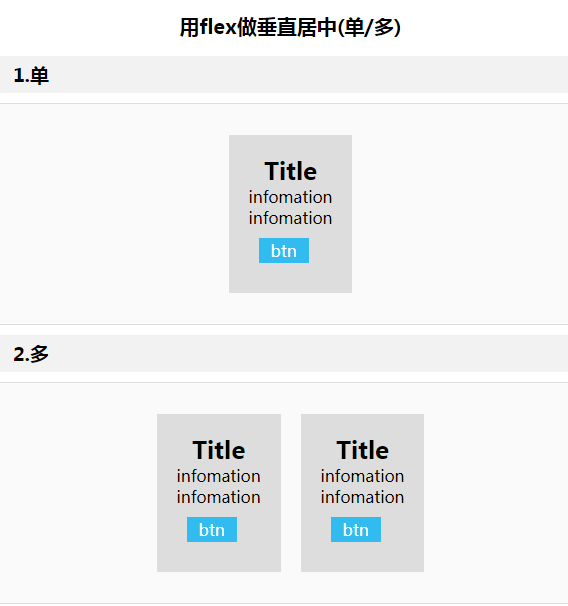
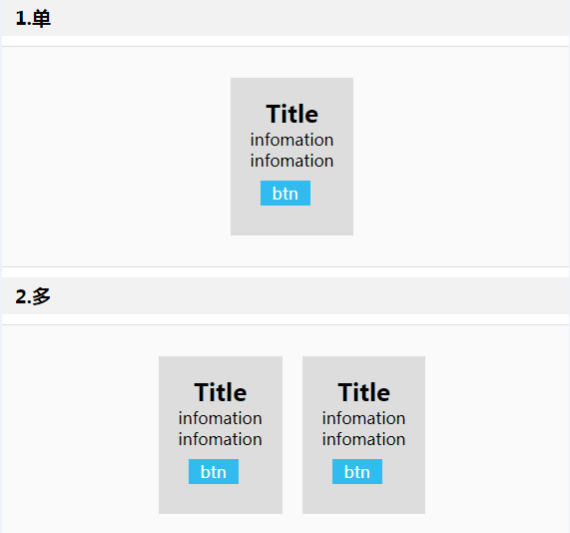
feat: updata

diff --git a/README.md b/README.md
@@ -1,11 +1,44 @@
-# flex 弹性布局
+### flex 弹性布局
+用 flex 做几种常用布局
+- [1.用flex做提示icon](https://github.com/miniChx/flex/tree/master/1.icon "1.用flex做提示icon")
+- [2.用flex做列表元素](https://github.com/miniChx/flex/tree/master/2.list "2.用flex做列表元素")
+- [3.用flex做tab](https://github.com/miniChx/flex/tree/master/3.tab "3.用flex做tab")
+- [4.用flex做导航(只适合三个布局)](https://github.com/miniChx/flex/tree/master/4.nav "4.用flex做导航(只适合三个布局)")
+- [5.用flex做搜索条](https://github.com/miniChx/flex/tree/master/5.search "5.用flex做搜索条")
+- [6.用flex做垂直居中(单/多)](https://github.com/miniChx/flex/tree/master/6.垂直居中 "6.用flex做垂直居中(单/多)")
+- [7.用flex做垂直弹性布局](https://github.com/miniChx/flex/tree/master/7.垂直弹性布局 "7.用flex做垂直弹性布局")
 
-- 1.用flex做提示icon
-- 2.用flex做列表元素
-- 3.用flex做tab
-- 4.用flex做导航(只适合三个布局)
-- 5.用flex做搜索条
-- 6.用flex做垂直居中(单/多)
-- 7.用flex做垂直弹性布局
+> <table><tr><td bgcolor=orange>1.用flex做提示icon</td></tr></table>
+![Aaron Swartz](
+https://raw.githubusercontent.com/miniChx/flex/master/libs/image/1-icon.png
+)
 
-![Aaron Swartz](https://raw.githubusercontent.com/miniChx/favorites/master/css/imgs/text-overflow/text-overflow1.jpg)
+> <table><tr><td bgcolor=orange>2.用flex做列表元素</td></tr></table>
+![Aaron Swartz](
+https://raw.githubusercontent.com/miniChx/flex/master/libs/image/2-list.png
+)
+
+> <table><tr><td bgcolor=orange>3.用flex做tab</td></tr></table>
+![Aaron Swartz](
+https://raw.githubusercontent.com/miniChx/flex/master/libs/image/3-tab.png
+)
+
+> <table><tr><td bgcolor=orange>4.用flex做导航(只适合三个布局)</td></tr></table>
+![Aaron Swartz](
+https://raw.githubusercontent.com/miniChx/flex/master/libs/image/4-nav.png
+)
+
+> <table><tr><td bgcolor=orange>5.用flex做搜索条</td></tr></table>
+![Aaron Swartz](
+https://raw.githubusercontent.com/miniChx/flex/master/libs/image/5-search.png
+)
+
+> <table><tr><td bgcolor=orange>6.用flex做垂直居中(单/多)</td></tr></table>
+![Aaron Swartz](
+https://raw.githubusercontent.com/miniChx/flex/master/libs/image/6.png
+)
+
+> <table><tr><td bgcolor=orange>7.用flex做垂直弹性布局</td></tr></table>
+![Aaron Swartz](
+https://raw.githubusercontent.com/miniChx/flex/master/libs/image/7.png
+)
